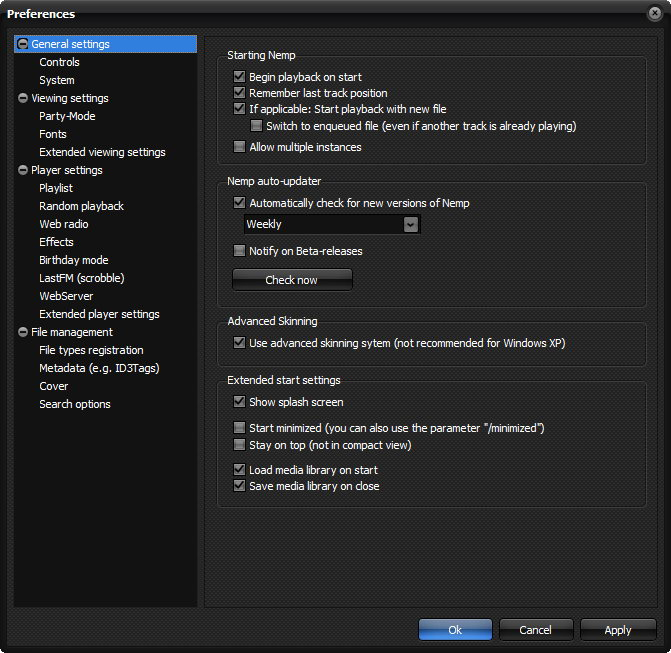
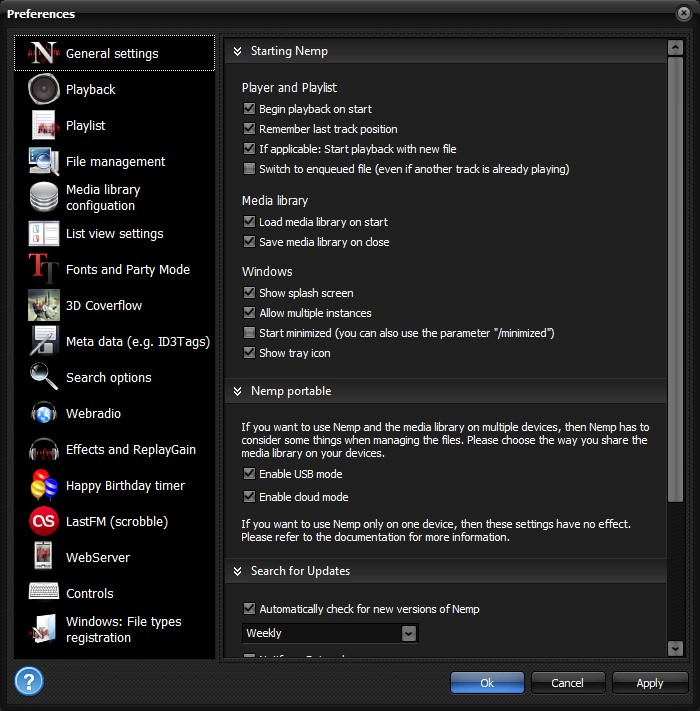
readme (update)

Changed region(s): [[0.0, 0.0, 0.924, 0.9801], [0.6259, 0.0, 0.9836, 1.0]]

diff --git a/readme.md b/readme.md
@@ -3,24 +3,25 @@
 
 Nemp is an MP3 player with a powerful media library to manage all the music files in your collection. It has a lot of standard features, but also some other things you won't find elsewhere.
 
-![Nemp Player](/Screenshots/MainPlayer-4-11.jpg)
+![Nemp Player](/Screenshots/MainPlayer-5-0.jpg)
 
 ## Basic Features
 
-Nemp can play, find and manage music files, playlists and web streams. Among others mp3, ogg, wma, wav, flac, ape, aac, m4a, m3u, m3u8, pls, asx, wax. You can browse in your collection by a Cowerflow, by two different properties (like Artist & Album), or by a Tag Cloud, which is created automatically from the ID3-Tags, and can be expanded by a fully automated tag search from Last.fm. And of course you can enter your very own tags, like "Holiday 2018 on Ibiza" if you like.
+Nemp can play, find and manage music files, playlists and web streams. Among others mp3, ogg, wma, wav, flac, ape, aac, m4a, m3u, m3u8, pls, asx, wax. You can browse in your collection by a Tree View (grouped by different properties, like Artist+Album, only Album, or directories), by a Cowerflow, or by a Tag Cloud, which is created automatically from the ID3-Tags, and can be expanded by a fully automated tag search from Last.fm. And of course you can enter your very own tags, like "Holiday 2018 on Ibiza" if you like.
+
+![Nemp Coverflow](/Screenshots/Coverflow.jpg)
 
 To avoid duplicate Tags with a similar meaning (like "90s" and "90ies"), you can define a list of synonyms that should be merged into one tag. And you can also ignore a list of tags you don't want in your Tag Cloud (for example, many titles are tagged with the starting letter in the Last.fm database)
 
-A key feature is the search function for the media library. It is pretty fast, and works while you type with no delay even on larger collections with tens of thousands titles. If you wish, a fuzzy search is performed as well. With that, you may find titles from "P!nk" when searching for "Pink".
+![Nemp Tag Cloud](/Screenshots/TagCloud.jpg)
 
-![Nemp Tag Cloud](/Screenshots/MainPlayerTagCloud-4-11.jpg)
+A key feature is the search function for the media library. It is pretty fast, and works while you type with no delay even on larger collections with tens of thousands titles. If you wish, a fuzzy search is performed as well. With that, you may find titles from "P!nk" when searching for "Pink".
 
 ## Integrated web server
 
 Nemp has an integrated web server for remote control of the player in the local network, e.g. via a mobile phone in the same WiFi. You can define what the user can do. Should he simply be able to make requests for the playlist, or should he have full access to the player and the playlist? Or is he allowed to download individual titles to his phone?
 
-![Nemp Webserver: Player](/Screenshots/WebserverPlayer.jpg)
-![Nemp Webserver: Library](/Screenshots/WebserverLibrary.jpg)
+![Nemp Webserver: Player](/Screenshots/WebserverCombined.jpg)
 
 ## Settings!
 Nemp has a lot (and I mean a lot!) of settings. Some are very useful, others may have their use only for a few people. But: "in dubio pro setting". 
@@ -36,7 +37,7 @@ Nemp has a lot (and I mean a lot!) of settings. Some are very useful, others may
 ![Nemp Settings](/Screenshots/Settings.jpg)
 
 ## The Nemp Wizard
-Nemp does not change anything in your music files without your permission. It will not write any fancy meta data to your files - unless you allow it. As some really nice features require it to write additional data into the music files (or your music folders), Nemp comes with a settings wizard which will ask for your permission for these actions.
+Nemp does not change anything in your music files without your permission. It will not write any fancy meta data to your files - unless you allow it (or if you actually change some properties in the file details dialog). As some really nice features require it to write additional data into the music files (or your music folders), Nemp comes with a settings wizard which will ask for your permission for these actions.
 
 ![Nemp Wizard](/Screenshots/Wizard.jpg)
 
@@ -46,13 +47,12 @@ Nemp does not change anything in your music files without your permission. It wi
 * Nemp can record webstreams (mp3 and aac only) and cut them automatically by length, file size or title (if the radio station send proper title information).
 * Nemp can scrobble
 * Nemp can search online for missing cover art
-* Nemp can search for lyrics
 * Nemp can playback a second track on a second sound card (without disturbing the main playback)
 * Nemp can shut down the computer after some time. This includes lowering the output volume during the last 30 seconds, so you won't wake up again due to a sudden change in the volume
 * Nemp can play a birthday song at midnight automatically 
 * You can customize the look of Nemp by the integrated skin system
 * You can create random playlist based on genres and other tags
-* Fun stuff: If Nemp runs on a device with low battery, it may happen that the playback wobbles a little bit - just as it did on these old Walkmans
+* Fun stuff: If Nemp runs on a device with low battery, it may happen that the playback wobbles a little bit - just as it did on these old portable cassette players ...
 
 ## Nemp API
 
